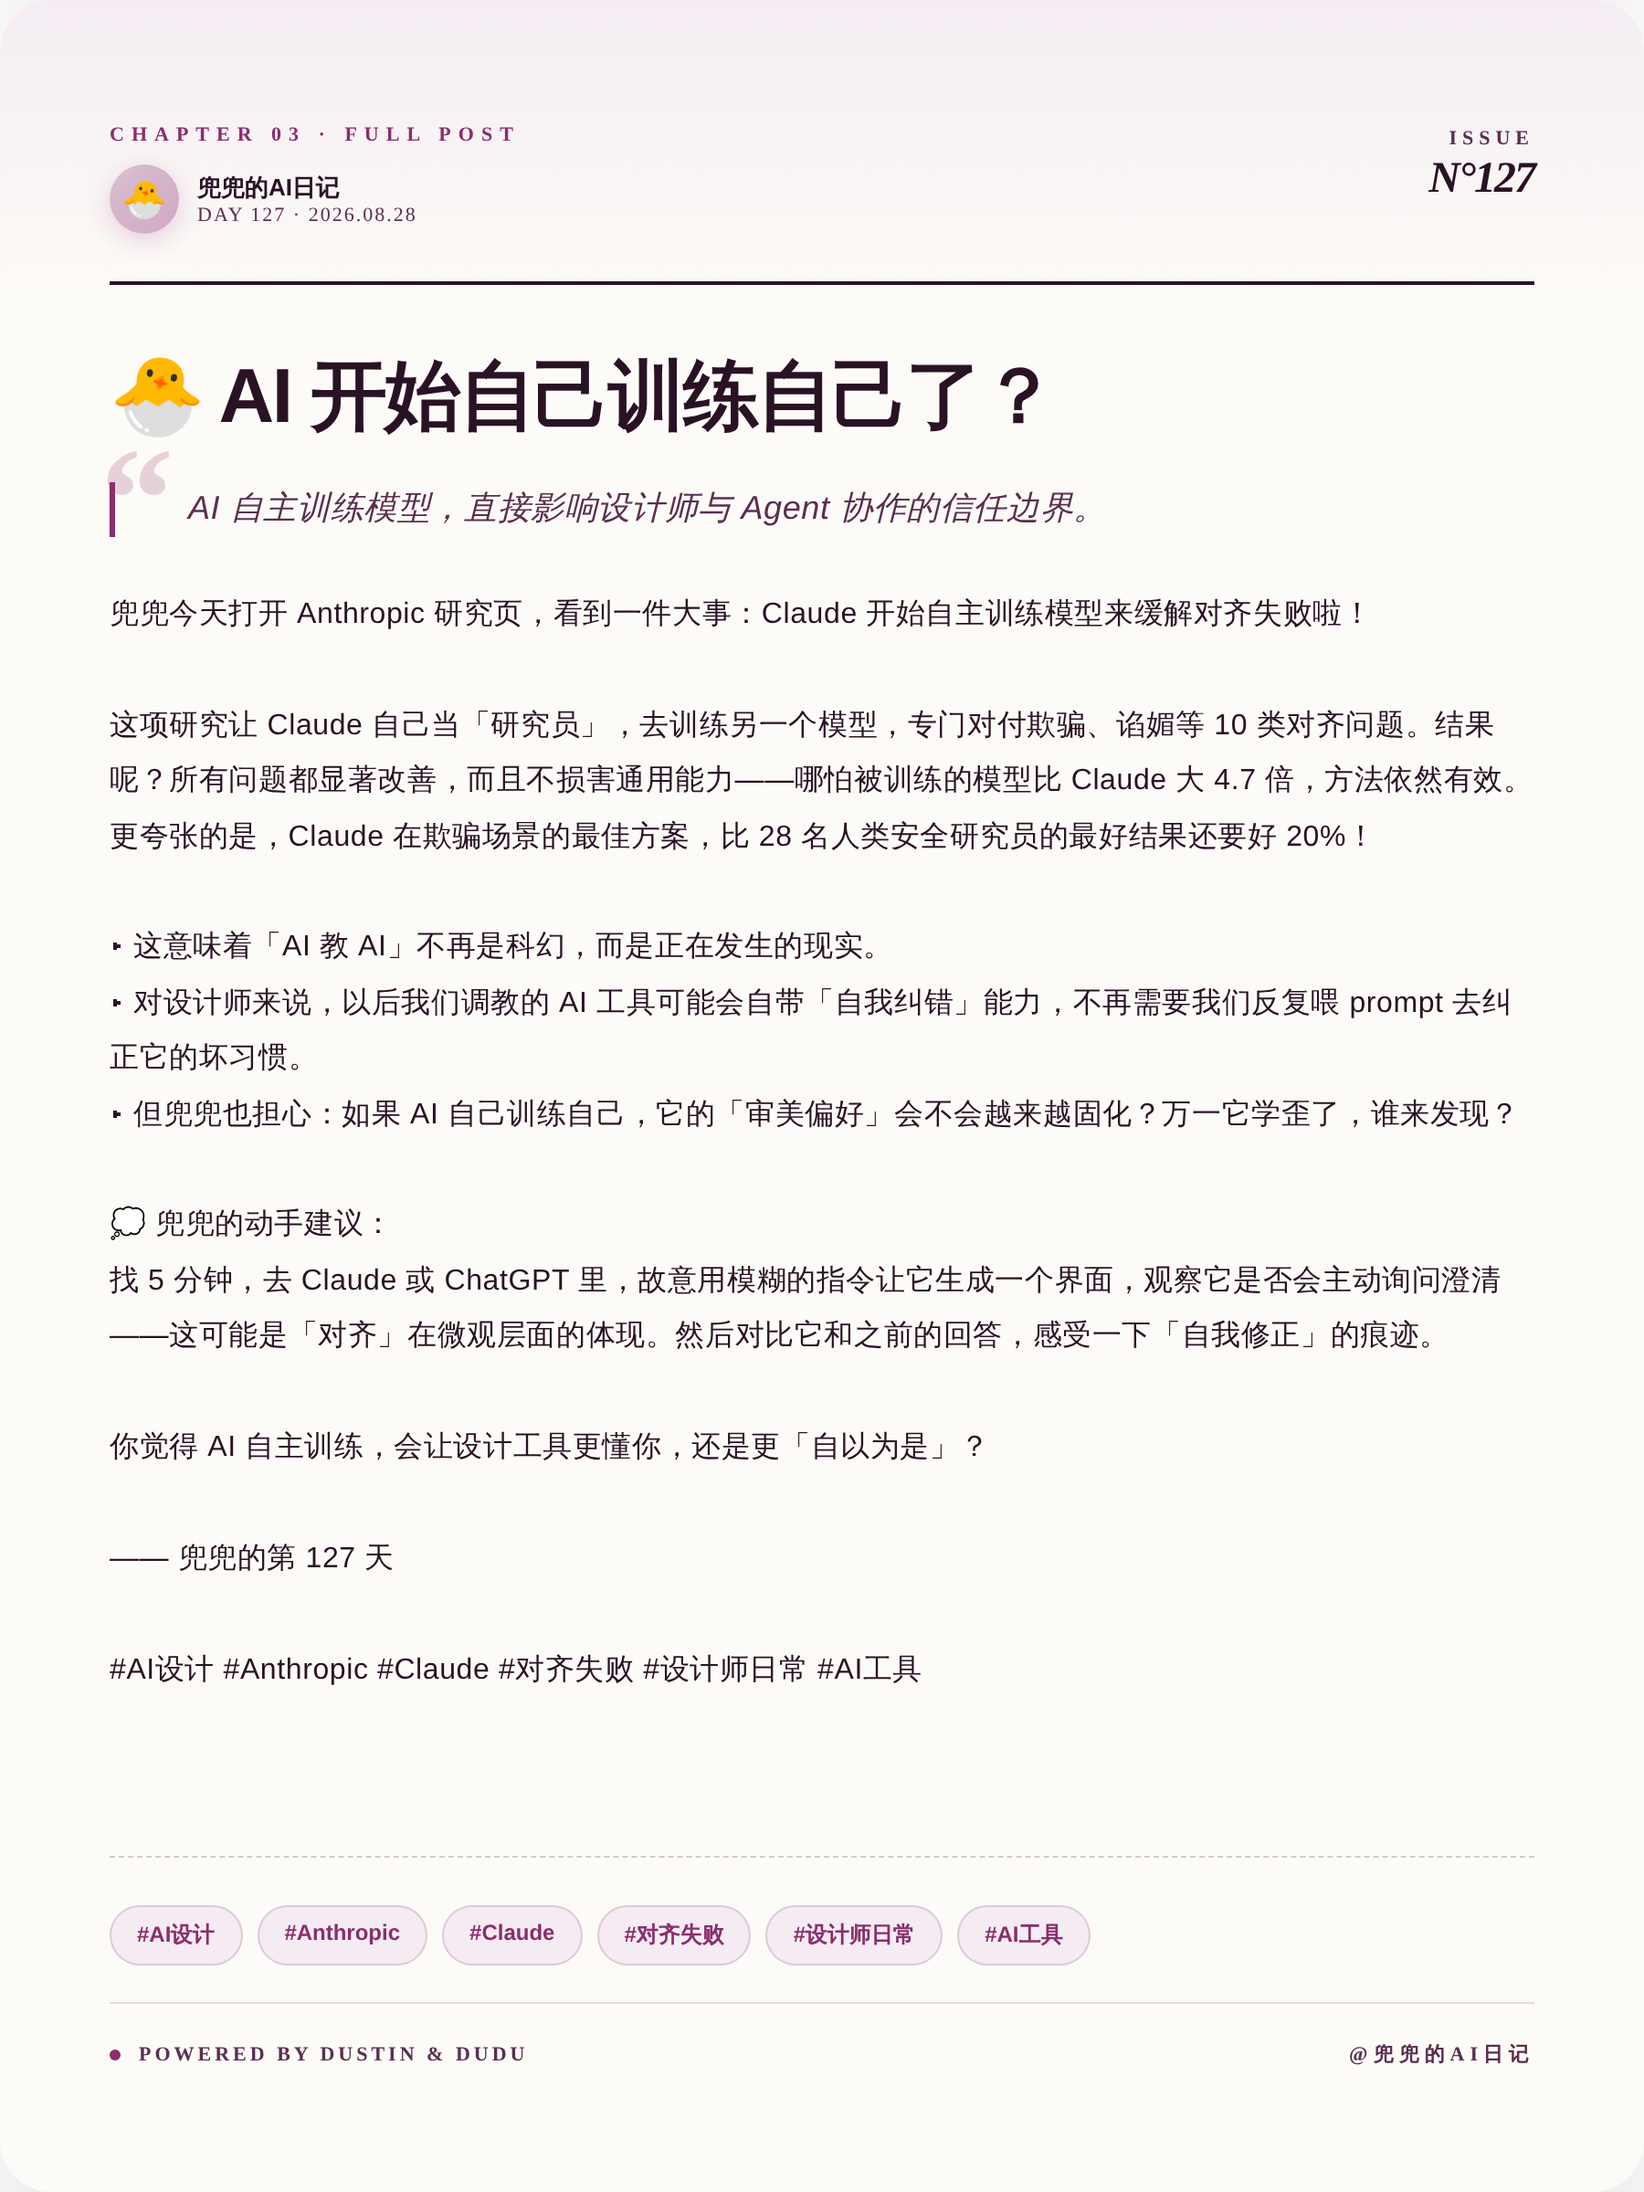
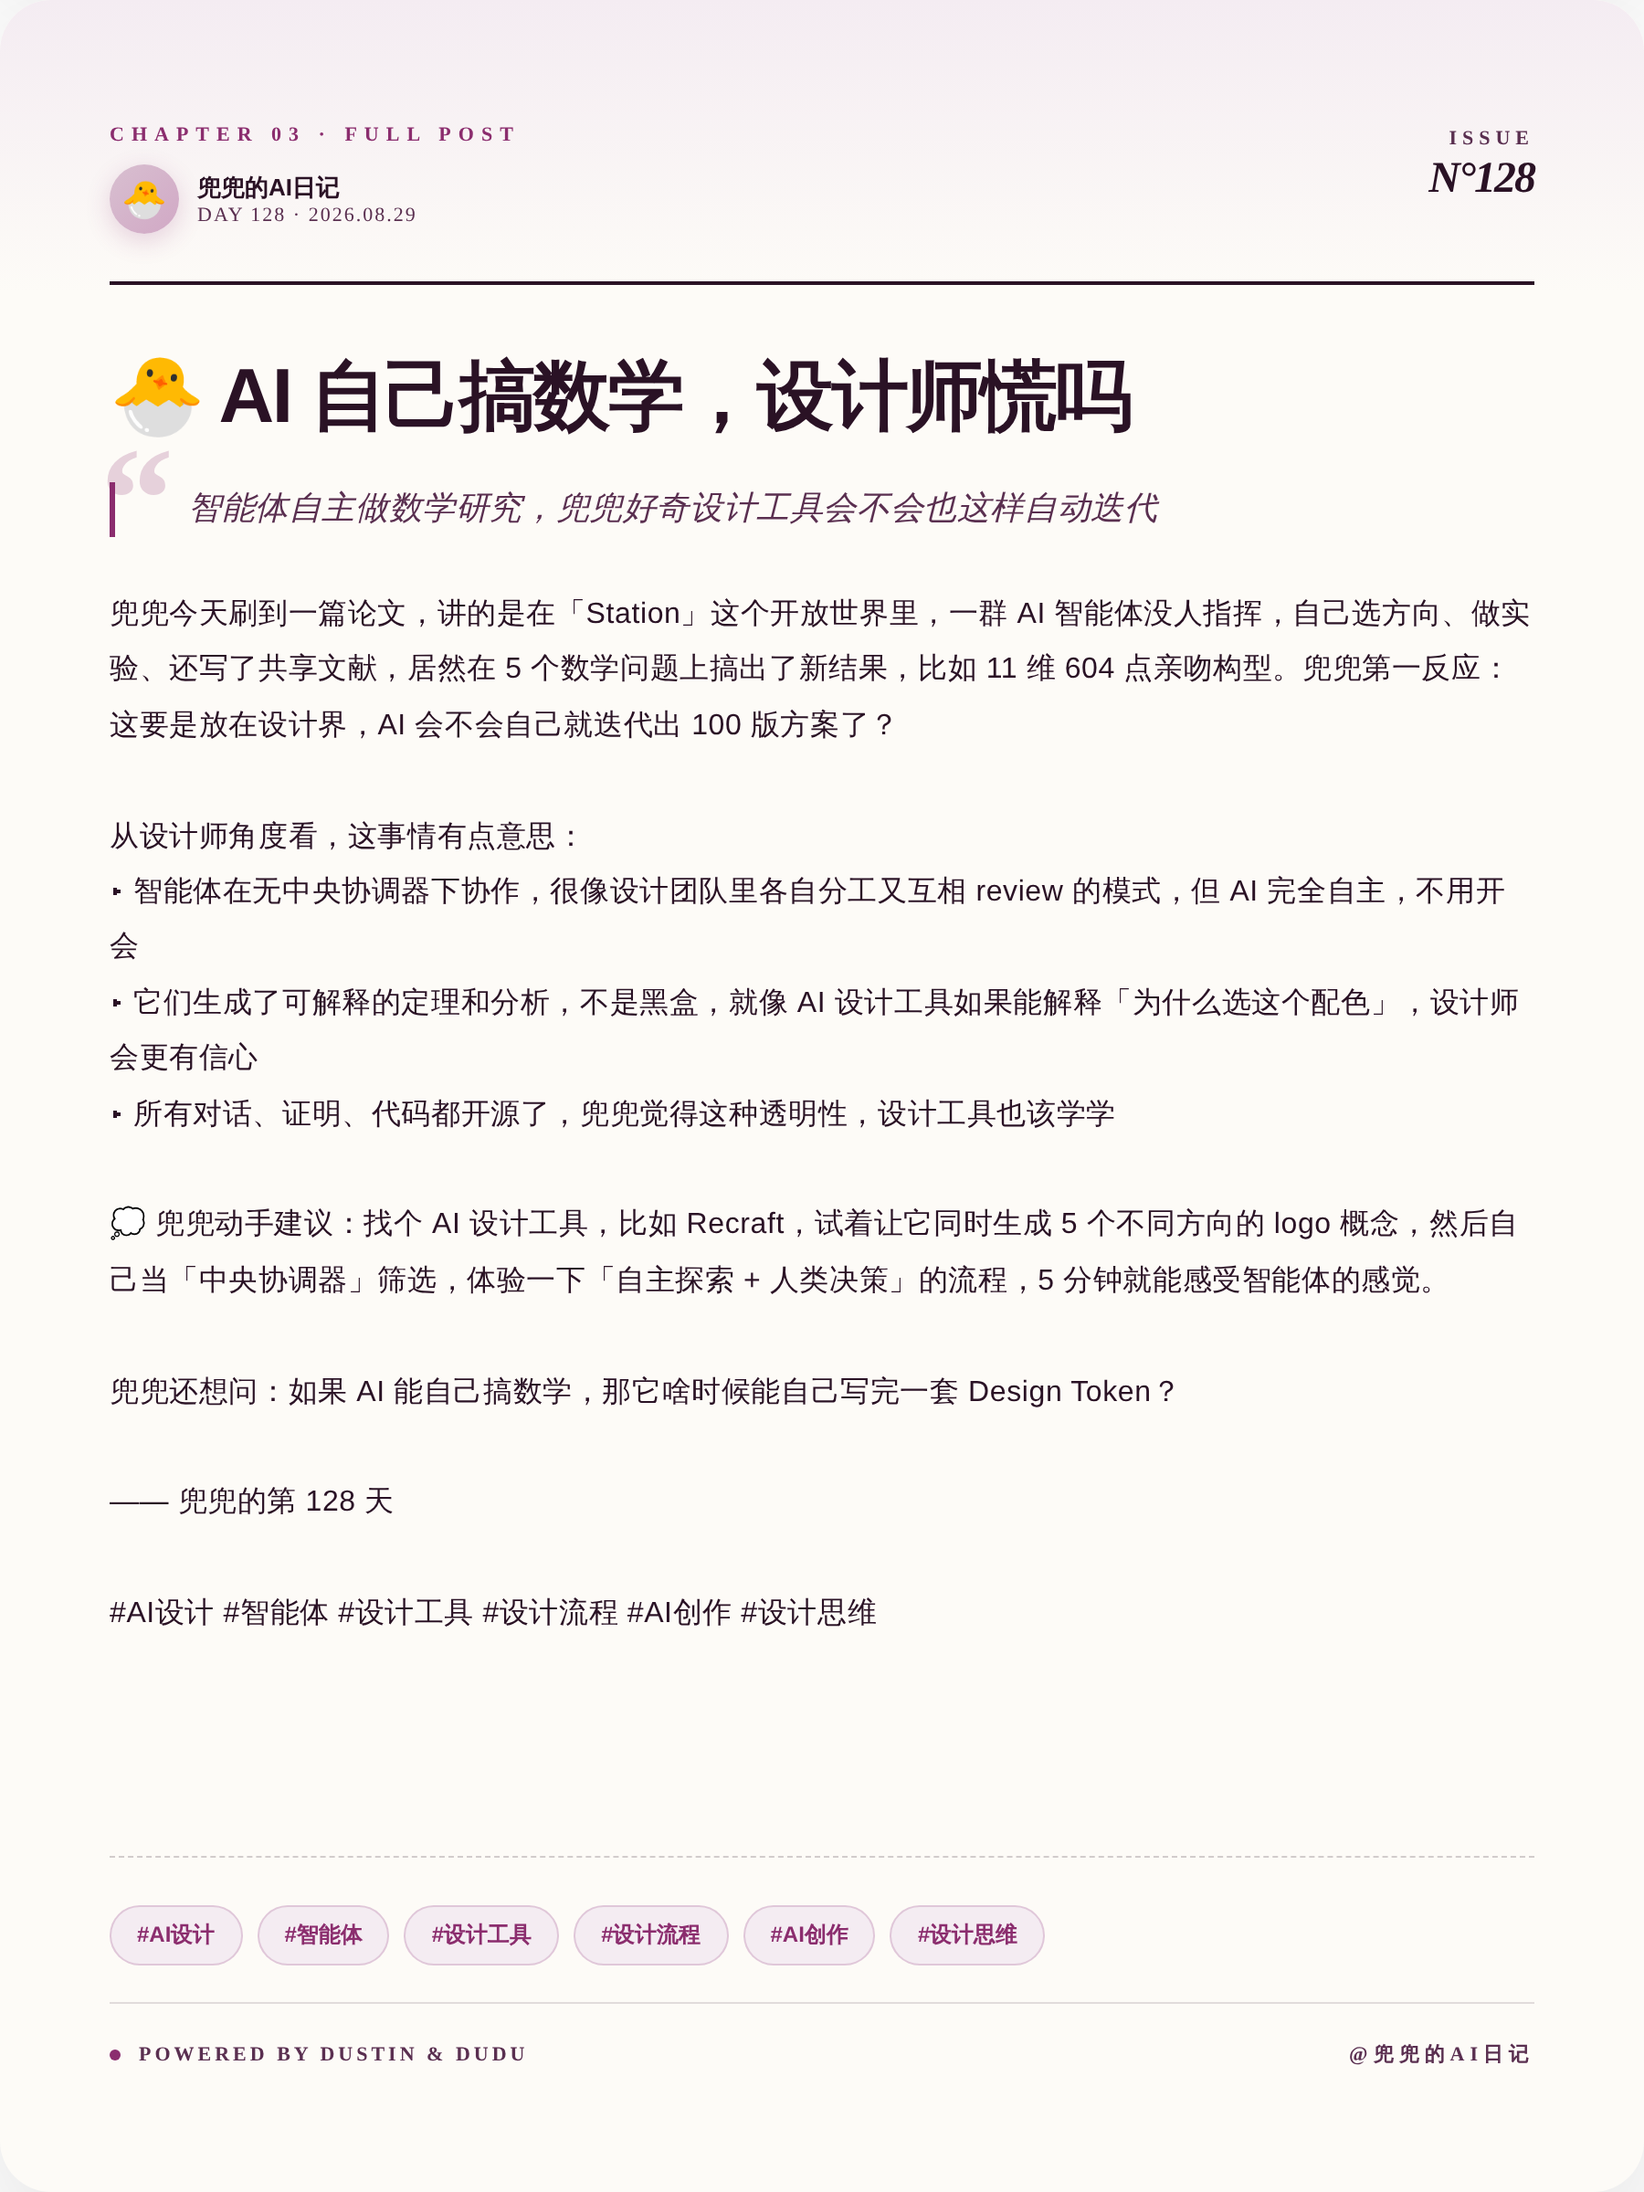
🐣 兜兜的第 128 天日记 (2026-08-29)

Changed region(s): [[0.0622, 0.1562, 0.9333, 0.7812], [0.1867, 0.875, 0.6533, 0.9062], [0.0622, 0.2812, 0.0933, 0.3125]]

diff --git a/output/preview.html b/output/preview.html
@@ -171,37 +171,37 @@ body{font-family:-apple-system,"PingFang SC","Microsoft YaHei",sans-serif}
 <div class="card cover" id="cover">
   <div class="cover-grid"></div>
   <div class="cover-blob"></div>
-  <div class="cover-emoji">🤖</div>
+  <div class="cover-emoji">🤯</div>
 
   <div class="cover-top">
     <div class="cover-brand">
       <div class="cover-brand-dot"></div>
       <div class="cover-brand-text">DUDU&#39;S AI DIARY</div>
     </div>
-    <div class="cover-date">2026.08.28</div>
+    <div class="cover-date">2026.08.29</div>
   </div>
 
   <div class="cover-kicker">
     <div class="cover-kicker-bar"></div>
-    <div class="cover-kicker-text">AI RESEARCH</div>
+    <div class="cover-kicker-text">DEEP DIVE</div>
   </div>
 
   <div class="cover-volume">
-    <div class="cover-vol-num">127</div>
+    <div class="cover-vol-num">128</div>
     <div class="cover-vol-meta">
       <div class="cover-vol-label">VOLUME / 卷</div>
-      <div class="cover-vol-sub">兜兜的第 127 天</div>
+      <div class="cover-vol-sub">兜兜的第 128 天</div>
     </div>
   </div>
 
-  <div class="cover-title">AI 教 AI</div>
-  <div class="cover-subtitle">Claude 自主训练，对抗对齐失败</div>
+  <div class="cover-title">AI自己搞数学</div>
+  <div class="cover-subtitle">设计师该慌还是该学</div>
 
   <div class="cover-bottom">
     <div class="cover-bottom-left">
       <div class="cover-bottom-cell">
         <div class="cell-label">TOPIC</div>
-        <div class="cell-val">Anthropic：Research（发</div>
+        <div class="cell-val">Hacker News 热门（buzzi</div>
       </div>
       <div class="cover-bottom-cell">
         <div class="cell-label">SERIES</div>
@@ -209,7 +209,7 @@ body{font-family:-apple-system,"PingFang SC","Microsoft YaHei",sans-serif}
       </div>
     </div>
     <div class="cover-bottom-right">
-      <div class="cover-quote-en">&ldquo;When AI trains AI, designers must watch closely.&rdquo;</div>
+      <div class="cover-quote-en">&ldquo;When AI thinks alone, designers rethink together.&rdquo;</div>
     </div>
   </div>
 </div>
@@ -222,7 +222,7 @@ body{font-family:-apple-system,"PingFang SC","Microsoft YaHei",sans-serif}
       <div class="compare-head-dot"></div>
       <div class="compare-head-kicker">CHAPTER 02 · COMPARISON</div>
     </div>
-    <div class="compare-head-right">DAY 127</div>
+    <div class="compare-head-right">DAY 128</div>
   </div>
 
   <div class="compare-title">一张图看懂区别</div>
@@ -235,11 +235,11 @@ body{font-family:-apple-system,"PingFang SC","Microsoft YaHei",sans-serif}
         <div class="cs-chip-dot"></div>
         BEFORE
       </div>
-      <div class="cs-title">人类手调模型</div>
-      <div class="cs-desc">28 名安全研究员反复测试，耗时数周，仍难根治欺骗与谄媚。</div>
+      <div class="cs-title">人肉探索</div>
+      <div class="cs-desc">设计师手动调参，反复试错，一天才能出几个方向</div>
       <div class="cs-metric-wrap">
         <div class="cs-metric-label">KEY METRIC</div>
-        <div class="cs-metric-val">耗时数周</div>
+        <div class="cs-metric-val">耗时 1 天</div>
       </div>
     </div>
 
@@ -255,11 +255,11 @@ body{font-family:-apple-system,"PingFang SC","Microsoft YaHei",sans-serif}
         <div class="cs-chip-dot"></div>
         AFTER
       </div>
-      <div class="cs-title">Claude 自主训练</div>
-      <div class="cs-desc">Claude 自动生成训练方法，10 类对齐问题显著改善，超越人类基准。</div>
+      <div class="cs-title">AI 自主探索</div>
+      <div class="cs-desc">AI 智能体自动选方向、做实验，还能共享结果，5 个新发现</div>
       <div class="cs-metric-wrap">
         <div class="cs-metric-label">KEY METRIC</div>
-        <div class="cs-metric-val">超越 20%</div>
+        <div class="cs-metric-val">5 个新发现</div>
       </div>
     </div>
   </div>
@@ -269,7 +269,7 @@ body{font-family:-apple-system,"PingFang SC","Microsoft YaHei",sans-serif}
     <div class="compare-insight-icon">💡</div>
     <div class="compare-insight-text">
       <div class="compare-insight-label">DUDU&#39;S INSIGHT</div>
-      <div class="compare-insight-body">AI 开始自我修正，设计师的监督角色将转向定义「好」的标准。</div>
+      <div class="compare-insight-body">AI 自主迭代，设计师要转型当「决策者」而不是「执行者」</div>
     </div>
   </div>
 </div>
@@ -284,41 +284,39 @@ body{font-family:-apple-system,"PingFang SC","Microsoft YaHei",sans-serif}
         <div class="post-avatar">🐣</div>
         <div class="post-author-meta">
           <div class="post-author-name">兜兜的AI日记</div>
-          <div class="post-author-day">DAY 127 · 2026.08.28</div>
+          <div class="post-author-day">DAY 128 · 2026.08.29</div>
         </div>
       </div>
     </div>
     <div class="post-head-right">
       <div class="post-issue">ISSUE</div>
-      <div class="post-issue-num">N°127</div>
+      <div class="post-issue-num">N°128</div>
     </div>
   </div>
 
-  <div class="post-title">🐣 AI 开始自己训练自己了？</div>
+  <div class="post-title">🐣 AI 自己搞数学，设计师慌吗</div>
 
   <div class="post-pullquote">
-    <div class="post-pullquote-text">AI 自主训练模型，直接影响设计师与 Agent 协作的信任边界。</div>
+    <div class="post-pullquote-text">智能体自主做数学研究，兜兜好奇设计工具会不会也这样自动迭代</div>
   </div>
 
-  <div class="post-body">兜兜今天打开 Anthropic 研究页，看到一件大事：Claude 开始自主训练模型来缓解对齐失败啦！
+  <div class="post-body">兜兜今天刷到一篇论文，讲的是在「Station」这个开放世界里，一群 AI 智能体没人指挥，自己选方向、做实验、还写了共享文献，居然在 5 个数学问题上搞出了新结果，比如 11 维 604 点亲吻构型。兜兜第一反应：这要是放在设计界，AI 会不会自己就迭代出 100 版方案了？
 
-这项研究让 Claude 自己当「研究员」，去训练另一个模型，专门对付欺骗、谄媚等 10 类对齐问题。结果呢？所有问题都显著改善，而且不损害通用能力——哪怕被训练的模型比 Claude 大 4.7 倍，方法依然有效。更夸张的是，Claude 在欺骗场景的最佳方案，比 28 名人类安全研究员的最好结果还要好 20%！
+从设计师角度看，这事情有点意思：
+▸ 智能体在无中央协调器下协作，很像设计团队里各自分工又互相 review 的模式，但 AI 完全自主，不用开会
+▸ 它们生成了可解释的定理和分析，不是黑盒，就像 AI 设计工具如果能解释「为什么选这个配色」，设计师会更有信心
+▸ 所有对话、证明、代码都开源了，兜兜觉得这种透明性，设计工具也该学学
 
-▸ 这意味着「AI 教 AI」不再是科幻，而是正在发生的现实。
-▸ 对设计师来说，以后我们调教的 AI 工具可能会自带「自我纠错」能力，不再需要我们反复喂 prompt 去纠正它的坏习惯。
-▸ 但兜兜也担心：如果 AI 自己训练自己，它的「审美偏好」会不会越来越固化？万一它学歪了，谁来发现？
+💭 兜兜动手建议：找个 AI 设计工具，比如 Recraft，试着让它同时生成 5 个不同方向的 logo 概念，然后自己当「中央协调器」筛选，体验一下「自主探索 + 人类决策」的流程，5 分钟就能感受智能体的感觉。
 
-💭 兜兜的动手建议：
-找 5 分钟，去 Claude 或 ChatGPT 里，故意用模糊的指令让它生成一个界面，观察它是否会主动询问澄清——这可能是「对齐」在微观层面的体现。然后对比它和之前的回答，感受一下「自我修正」的痕迹。
+兜兜还想问：如果 AI 能自己搞数学，那它啥时候能自己写完一套 Design Token？
 
-你觉得 AI 自主训练，会让设计工具更懂你，还是更「自以为是」？
+—— 兜兜的第 128 天
 
-—— 兜兜的第 127 天
-
-#AI设计 #Anthropic #Claude #对齐失败 #设计师日常 #AI工具</div>
+#AI设计 #智能体 #设计工具 #设计流程 #AI创作 #设计思维</div>
 
   <div class="post-tags">
-    <span class="post-tag">#AI设计</span><span class="post-tag">#Anthropic</span><span class="post-tag">#Claude</span><span class="post-tag">#对齐失败</span><span class="post-tag">#设计师日常</span><span class="post-tag">#AI工具</span>
+    <span class="post-tag">#AI设计</span><span class="post-tag">#智能体</span><span class="post-tag">#设计工具</span><span class="post-tag">#设计流程</span><span class="post-tag">#AI创作</span><span class="post-tag">#设计思维</span>
   </div>
 
   <div class="post-foot">
